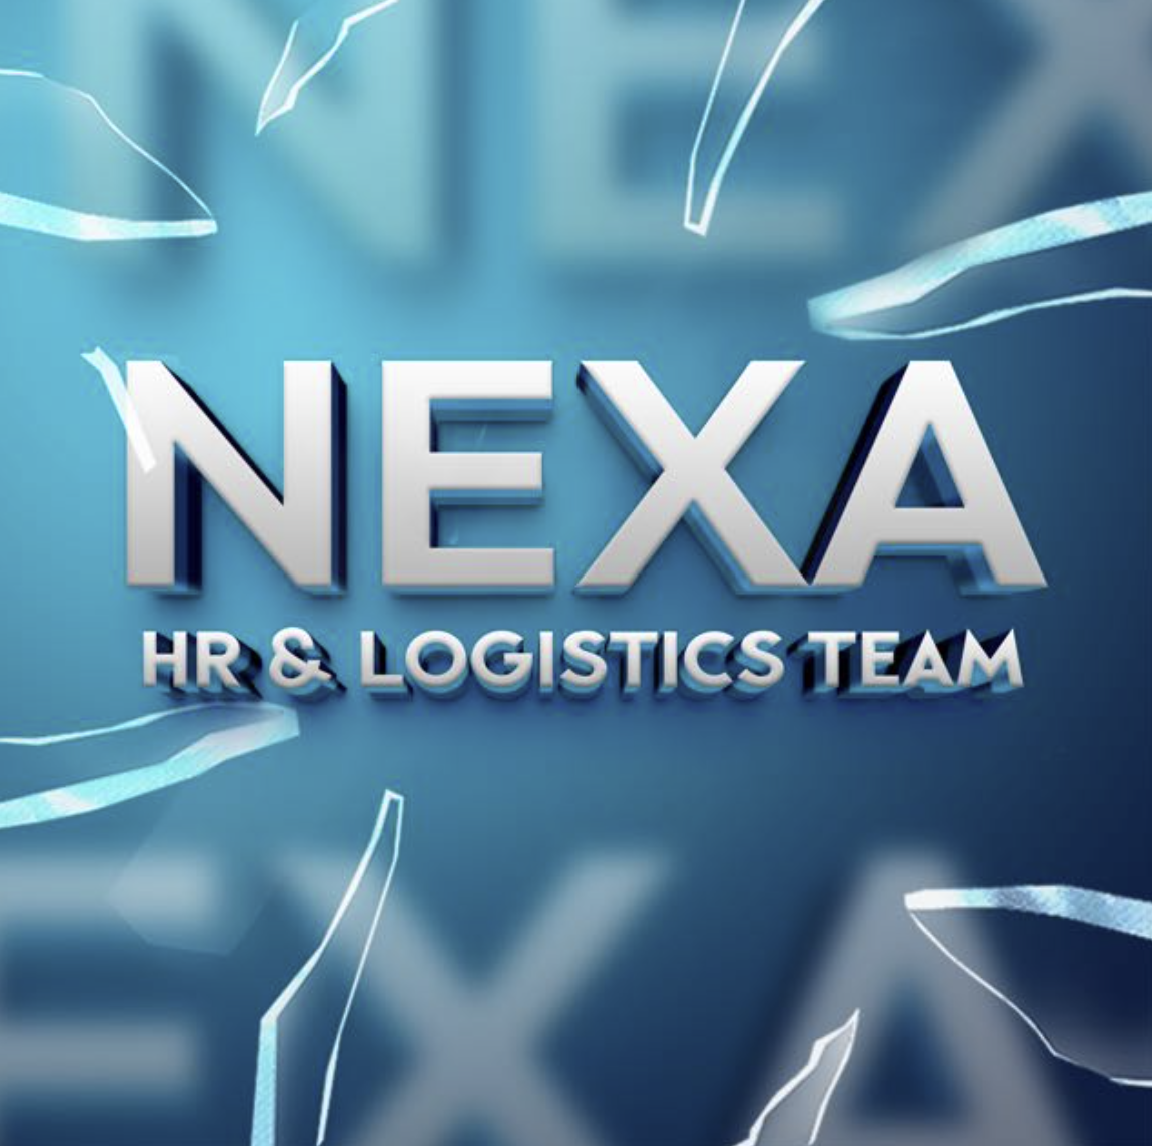
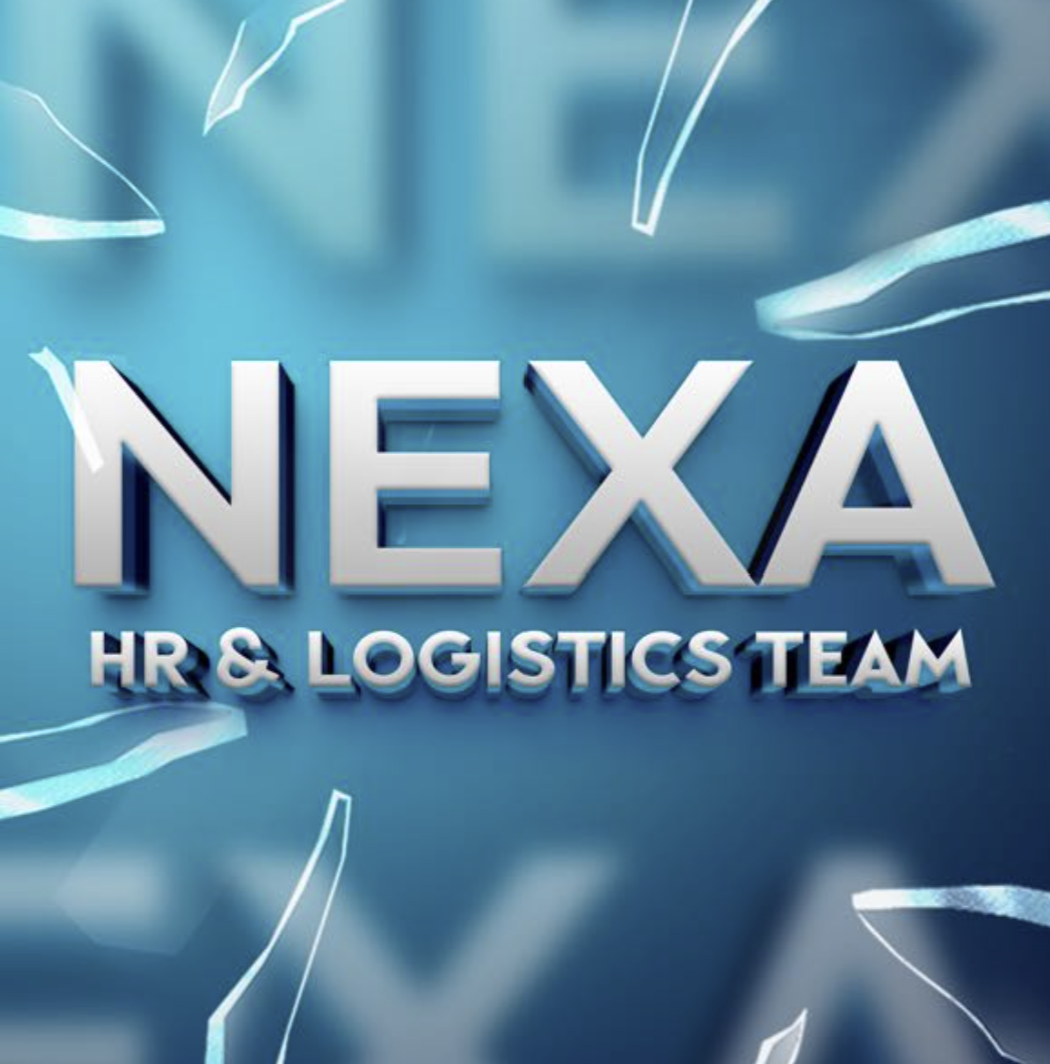
made changes again

diff --git a/index.html b/index.html
@@ -142,12 +142,11 @@
               </a>
               <a href="assets/images/nexa.png" data-gallery-item="nexa" style="display:none;"></a>
               <div class="activity-text-content">
-                <h3>NEXA</h3>
+                <h3>NEXA | Tech Talk Series</h3>
                 <p class="org">Association of Computing Students (ACS)</p>
                 <p class="role">HR & Logistics Team</p>
                 <p class="desc expandable">
-                  Coordinated and successfully worked on the planning and implementation of IEEE Day 2025 in the University of Sri Jayewardenepura. Being a part of the Logistics & HR Committee, I assisted in the organization of the events, human resources coordination, and made the celebration a smooth and interesting one.
-                  Honored to have collaborated with a wonderful team to make innovation, collaboration and community spirit come to life.
+                  Currently serving on the HR & Logistics Committee for NEXA, the Association of Computing Students' inaugural one-day tech talk series. My role focuses on the end-to-end operational coordination of the event, including stakeholder management and resource logistics. I am actively involved in ensuring that the event infrastructure ranging from venue management to team coordination—is optimized to deliver a high-quality experience for 300+ university students and industry professionals.
                 </p>
                 <div class="activity-links">
                   <a href="https://www.linkedin.com/posts" target="_blank" class="btn"><i class="fab fa-linkedin"></i> View Post</a>